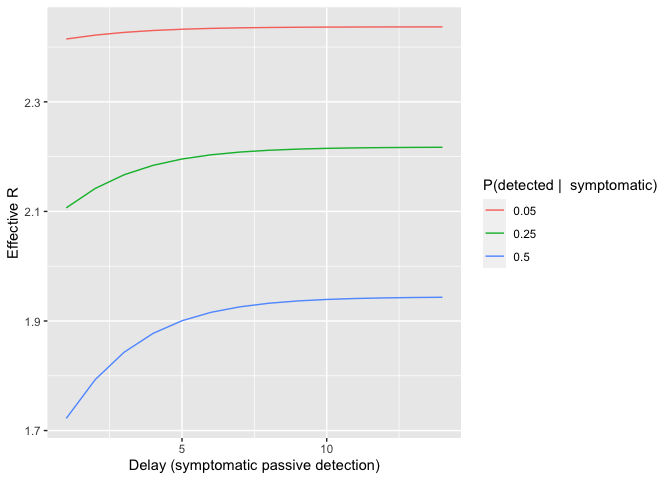
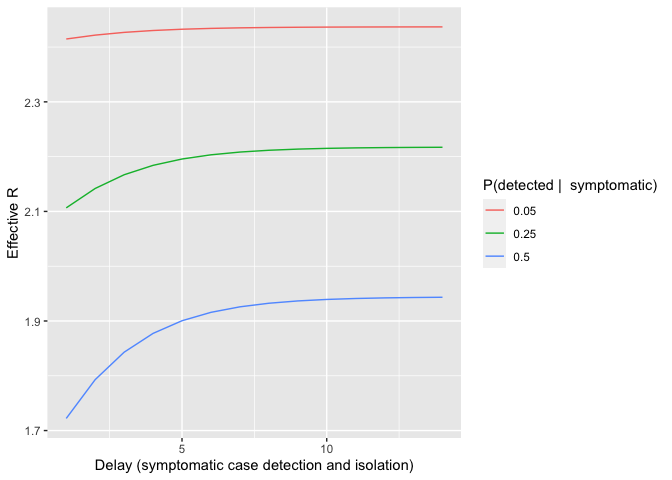
update readme

Changed region(s): [[0.125, 0.9375, 0.625, 1.0]]

diff --git a/README.md b/README.md
@@ -28,17 +28,17 @@ devtools::install_github("HopkinsIDD/tti")
 library(tti)
 ```
 
-The `get_pqc_equilibrium()` function will iterate through the
-passive-quarantine-community vectors until “equilibrium” is met, as
+The `get_dqc_equilibrium()` function will iterate through the
+detected-quarantine-community vectors until “equilibrium” is met, as
 specified by the `tolerance` parameter. For example, here we start with
 80% symptomatic in the community and 20% asymptomatic in the community.
 
 ``` r
-pqc <- get_pqc_equilibrium(init = c(Ps = 0, Pa = 0, Qcps = 0, Qhps = 0,
-                                    Qcpa = 0, Qhpa = 0, Qq = 0, Cs = 0.8,
+dqc <- get_dqc_equilibrium(init = c(Ds = 0, Da = 0, Qcds = 0, Qhds = 0,
+                                    Qcda = 0, Qhda = 0, Qq = 0, Cs = 0.8,
                                     Ca = 0.2))
-pqc
-#>           Ps           Pa         Qcps         Qhps         Qcpa         Qhpa 
+dqc
+#>           Ds           Da         Qcds         Qhds         Qcda         Qhda 
 #> 0.0768155690 0.0096019461 0.0074079812 0.0296319249 0.0004629988 0.0018519953 
 #>           Qq           Cs           Ca 
 #> 0.0004504876 0.6913401207 0.1824369763
@@ -48,14 +48,14 @@ From this, we can calculate the proportion quarantined using the
 `get_prop_quarantined()` function.
 
 ``` r
-get_prop_quarantined(pqc)
+get_prop_quarantined(dqc)
 #> [1] 0.03980539
 ```
 
 We can then calculate the \(R_{effective}\) under this scenario.
 
 ``` r
-get_r_effective(pqc)
+get_r_effective(dqc)
 #> [1] 2.361799
 ```
 
@@ -76,16 +76,16 @@ d
 #> # A tibble: 90 x 4
 #>        t prop_infected r_effective category
 #>    <dbl>         <dbl>       <dbl> <chr>   
-#>  1     1          0           2.5  Ps      
-#>  2     1          0           2.5  Pa      
-#>  3     1          0           2.5  Qcps    
-#>  4     1          0           2.5  Qhps    
-#>  5     1          0           2.5  Qcpa    
-#>  6     1          0           2.5  Qhpa    
+#>  1     1          0           2.5  Ds      
+#>  2     1          0           2.5  Da      
+#>  3     1          0           2.5  Qcds    
+#>  4     1          0           2.5  Qhds    
+#>  5     1          0           2.5  Qcda    
+#>  6     1          0           2.5  Qhda    
 #>  7     1          0           2.5  Qq      
 #>  8     1          0.8         2.5  Cs      
 #>  9     1          0.2         2.5  Ca      
-#> 10     2          0.08        2.46 Ps      
+#> 10     2          0.08        2.46 Ds      
 #> # … with 80 more rows
 ```
 
@@ -131,16 +131,16 @@ ggplot(r, aes(x = t, y = r_effective)) +
 We can also look at the \(R_{effective}\) over a variety of parameters
 using the `get_r_effective_df()` function. This can take parameters as
 either single number scalars or vectors of parameters to try. For
-example, if we wanted to look at how \(R\) is affected by varying `t_ps`
+example, if we wanted to look at how \(R\) is affected by varying `t_ds`
 between 1 and 14 and `rho_s` values of 0.05, 0.25, and 0.5, we would run
 the following.
 
 ``` r
-d <- get_r_effective_df(t_ps = 1:14, 
+d <- get_r_effective_df(t_ds = 1:14, 
                         rho_s = c(0.05, 0.25, 0.5))
 d
 #> # A tibble: 42 x 18
-#>    r_effective alpha     R kappa   eta    nu  t_ps  t_pa t_qcs t_qca t_qhs t_qha
+#>    r_effective alpha     R kappa   eta    nu  t_ds  t_da t_qcs t_qca t_qhs t_qha
 #>          <dbl> <dbl> <dbl> <dbl> <dbl> <dbl> <int> <dbl> <dbl> <dbl> <dbl> <dbl>
 #>  1        2.41   0.2   2.5   0.5   0.5     4     1     3     3     3     3     3
 #>  2        2.42   0.2   2.5   0.5   0.5     4     2     3     3     3     3     3
@@ -158,14 +158,14 @@ d
 
 This gives us a data frame with 18 columns, the first being the
 \(R_{effective}\) and the subsequent columns detailing the parameters.
-Notice here there are 52 rows, because we had 52 combinations of `t_ps`
+Notice here there are 52 rows, because we had 52 combinations of `t_ds`
 and `rho_s` that we provided.
 
 ``` r
-ggplot(d, aes(x = t_ps, y = r_effective, color = factor(rho_s))) +
+ggplot(d, aes(x = t_ds, y = r_effective, color = factor(rho_s))) +
   geom_line() + 
   scale_y_continuous("Effective R") + 
-  scale_x_continuous("Delay (symptomatic passive detection)") + 
+  scale_x_continuous("Delay (symptomatic case detection and isolation)") + 
   scale_color_discrete("P(detected |  symptomatic)")
 ```
 
@@ -185,16 +185,16 @@ infect <- matrix(c(2.5, 0, 0,
 detect <- matrix(c(0.1, 0.5, 0.4,
                    0.02, 0.9, 0.08,
                    0.2, 0, 0.8), nrow = 3, byrow = TRUE)
-pqc <- get_pqc_equilibrium_base(init = c(0, 0, 1), 
+dqc <- get_dqc_equilibrium_base(init = c(0, 0, 1), 
                                 infect = infect,
                                 detect = detect
                                 )
-pqc
+dqc
 #>           [,1]     [,2]      [,3]
 #> [1,] 0.1691082 0.154459 0.6764328
 ```
 
 ``` r
-get_r_effective_base(pqc, infect)
+get_r_effective_base(dqc, infect)
 #> [1] 2.268311
 ```
